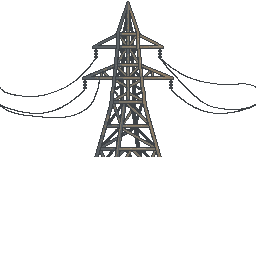
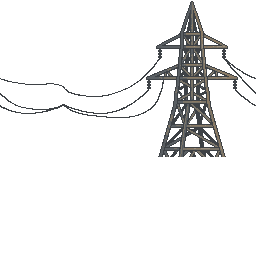
Art Director phase 4: round flywheel, pylon offset, sky + RotSprite sheets, tech tree/HUD/float text polish
Includes RotSprite generation scripts (scripts/art) and the code prototype diff
for the remaining Phase 4 code fixes.

Claude-Session: https://claude.ai/code/session_013hgiVthTsnhGySSf7gyoCD

Changed region(s): [[0.0, 0.0, 1.0, 0.625]]

diff --git a/src/data/world.ts b/src/data/world.ts
@@ -28,5 +28,5 @@ export const DUST: { maxParticles: number; frequencyMs: number; lifespanMs: [num
     alpha: [0, 0.35] /* [end, start] fade */, scale: [1, 2.5], depth: DEPTH.dust,
     spawnTopY: GROUND_Y - 520, spawnBottomY: GROUND_Y - 20 };
 export const CRANK_FEEDBACK = { degreesPerClick: 90, tweenMs: 160, shakePx: 1 /* art px */, shakeMs: 60,
-  floatRisePx: 48, floatMs: 700, floatPoolSize: 24, hitRadius: 36 /* art px, crank click area */ } as const;
-export const FLOATING_TEXT = { fontSizePx: 20, strokePx: 3, jitterX: 14, spawnOffsetY: -40 } as const;   // world px
+  floatRisePx: 40, floatMs: 1100, floatPoolSize: 24, hitRadius: 36 /* art px, crank click area */ } as const;
+export const FLOATING_TEXT = { fontSizePx: 24, strokePx: 4, jitterX: 14, spawnOffsetY: -56 } as const;   // world px

diff --git a/src/ui/techTree.css b/src/ui/techTree.css
@@ -159,8 +159,11 @@
   cursor: pointer;
 }
 
+/* .88em with no tracking fits the longest name (19 chars, "GENERATOR BLUEPRINT") in the 152 px inner width of a 176 px node. */
 .tech-node-name {
-  font-size: .95em;
+  font-size: .88em;
+  letter-spacing: 0;
+  font-weight: 700;
   white-space: nowrap;
   overflow: hidden;
   text-overflow: ellipsis;

diff --git a/src/ui/hud.css b/src/ui/hud.css
@@ -46,10 +46,17 @@
   padding-bottom: 4px;
 }
 
+/* Baseline alignment keeps the small labels on the same line as the large ME value. */
 .hud-row {
   display: flex;
   justify-content: space-between;
+  align-items: baseline;
   gap: 16px;
+  line-height: 1.25;
+}
+
+.hud-row + .hud-row {
+  margin-top: 2px;
 }
 
 .hud-label {

diff --git a/scripts/art/make_rot.py b/scripts/art/make_rot.py
@@ -1,0 +1,36 @@
+# Pre-render RotSprite rotation sheets. Frame k = source rotated clockwise by k*360/N deg about the canvas centre corner.
+import sys, json, math
+import numpy as np
+from PIL import Image
+sys.path.insert(0, sys.path[0])
+from rotsprite import scale2x
+
+SRC = '/home/user/WhatExatlyDoesThisMachineDo/public/assets/machine/'
+OUT = sys.argv[1]
+PARTS = {  # file: frames over 360 deg
+    'flywheel': 180, 'gear-large': 140, 'gear-small': 80, 'hand-crank': 80, 'crank-brace': 80,
+    'pulley-main': 140, 'pulley-crank': 80, 'pulley-flywheel': 180, 'pulley-motor': 24,
+}
+UP = 3; K = 2 ** UP
+meta = {}
+for name, n in PARTS.items():
+    src = Image.open(SRC + name + '.png').convert('RGBA')
+    a = np.array(src); a[a[:, :, 3] < 128] = 0; a[a[:, :, 3] >= 128, 3] = 255
+    big = a.copy()
+    for _ in range(UP): big = scale2x(big)
+    bigim = Image.fromarray(big)
+    W, H = src.size
+    cols = math.ceil(math.sqrt(n * H / W)); cols = min(cols, n)
+    rows = math.ceil(n / cols)
+    sheet = Image.new('RGBA', (cols * W, rows * H), (0, 0, 0, 0))
+    for k in range(n):
+        deg = k * 360.0 / n
+        if k == 0:
+            fr = Image.fromarray(a)
+        else:
+            r = np.array(bigim.rotate(-deg, resample=Image.NEAREST, center=(bigim.width / 2, bigim.height / 2)))
+            fr = Image.fromarray(r[K // 2::K, K // 2::K].copy())
+        sheet.paste(fr, ((k % cols) * W, (k // cols) * H))
+    sheet.save(f'{OUT}/{name}-rot.png')
+    meta[name] = {'frames': n, 'cols': cols, 'rows': rows, 'frameWidth': W, 'frameHeight': H, 'stepDeg': 360.0 / n, 'sheet': list(sheet.size)}
+print(json.dumps(meta, indent=1))

diff --git a/scripts/art/rotsprite.py b/scripts/art/rotsprite.py
@@ -1,0 +1,34 @@
+import numpy as np
+from PIL import Image
+
+def scale2x(a):
+    # a: HxWx4 uint8 ; EPX/Scale2x
+    H, W = a.shape[:2]
+    p = np.pad(a, ((1,1),(1,1),(0,0)), mode='edge')
+    E = p[1:-1,1:-1]; B = p[:-2,1:-1]; D = p[1:-1,:-2]; F = p[1:-1,2:]; H_ = p[2:,1:-1]
+    eq = lambda x, y: np.all(x == y, axis=2)
+    c = (~eq(B, H_)) & (~eq(D, F))
+    E0 = np.where((c & eq(D, B))[..., None], D, E)
+    E1 = np.where((c & eq(B, F))[..., None], F, E)
+    E2 = np.where((c & eq(D, H_))[..., None], D, E)
+    E3 = np.where((c & eq(H_, F))[..., None], F, E)
+    out = np.zeros((H*2, W*2, 4), np.uint8)
+    out[0::2,0::2] = E0; out[0::2,1::2] = E1; out[1::2,0::2] = E2; out[1::2,1::2] = E3
+    return out
+
+def rotsprite(img, deg, up=3):
+    a = np.array(img.convert('RGBA'))
+    a[a[:,:,3] < 128] = 0
+    for _ in range(up): a = scale2x(a)
+    k = 2 ** up
+    big = Image.fromarray(a)
+    # rotate about exact centre, NN, same size
+    r = big.rotate(-deg, resample=Image.NEAREST, center=(big.width/2, big.height/2))
+    r = np.array(r)
+    # downsample: sample centre pixel of each kxk block
+    off = k // 2
+    small = r[off::k, off::k]
+    return Image.fromarray(small)
+
+def nn(img, deg):
+    return img.convert('RGBA').rotate(-deg, resample=Image.NEAREST, center=(img.width/2, img.height/2))

diff --git a/docs/plan/ART_AUDIT.md b/docs/plan/ART_AUDIT.md
@@ -204,3 +204,66 @@ or tween between those steps. Gameplay unaffected.
 
 **C3 (S3) docs/manifest text.** `src/assets/manifest.ts:78` pulleyCrank description → `'Small flat-belt pulley (r8, centred in a 32×32 canvas) with crowned rim and solid three-rib web; belt rides inside the pinion root.'`;
 `docs/ASSET_GUIDE.md` crank row: "slim crank arm with r5.5 boss and wooden knob at r≈18"; gear rows: "solid recessed web, teeth one value step lighter than the frame".
+
+## Phase 4 — release-quality gate (2026-10-18)
+Evidence (scratch `.../scratchpad/p4/`): `final/full.png`, `final/stages/s0..s7`, `final/u03-tree.png`, `final/u04-tree-sel.png`,
+`final/u06-system.png`, `final/u02-toasts.png` (repo build); prototype of the code fixes below (scratch copy `p4/proto`, port 4180):
+`proto_full2.png`, `mo2/s7-z4-f00.png` (zoom 2), `mo2_s7_hub.png` (art-res motion sheet), `ft3_c.png` (floating text);
+before: `mo_s7_hub.png`, `mo/s7-z4-f00.png`, `rs_flywheel.png` / `rs_gear-large.png` (NN vs RotSprite), `fly_round_cmp2.png`.
+Headless note: Chromium runs this scene at ~7–25 fps, so tweens < 300 ms are mostly missed by screenshots; sample alpha via a dev hook.
+
+### Fixed (assets, numeric data, CSS)
+| # | defect | fix | evidence |
+|---|---|---|---|
+| P4-1 | Pylon lattice centred behind the crank / gear mesh at the default camera (pylons at screen x 127/640/1152) — focal-point clutter | `bg/pylons.png` rolled +64 art px (np.roll, tileable, no resample) → pylons at x 255 (left of motor) / 767 (right bay, top shows between pistons and flywheel) | final/full.png |
+| P4-2 | Flywheel silhouette not round: rim outer radius 47.9 (axes) … 52.3 (diagonals) = squircle → wheel "egg-wobbles" while spinning, rotated corners clip | `machine/flywheel.png` trimmed to circle r 47.6 about corner (48,48), outline re-inked #14110f, 1-px lit lip ring #5f5244 (r 45.6–46.6); 799 px removed, palette unchanged | fly_round_cmp2.png, final/stages/s5 |
+| P4-3 | Tech-tree names truncated: "REINFORCED CRA…", "GENERATOR BLUE…", "IMPROVED PISTO…" | `techTree.css` `.tech-node-name` .88em, letter-spacing 0, bold (19 chars = 150 px ≤ 152 px inner width) | final/u04-tree-sel.png |
+| P4-4 | "+N" click text practically invisible: alpha fades with Cubic.easeOut over 700 ms (alpha .49 @140 ms, .18 @300 ms), 20 px mutedOrange on the dark girder | `world.ts` `floatMs` 1100, `floatRisePx` 40, `FLOATING_TEXT` fontSizePx 24, strokePx 4, spawnOffsetY −56 (clears knob arc); rest = C4-3 | ft3_c.png (with C4-3) |
+| P4-5 | HUD: small labels top-aligned against the 1.6em ME value, secondary rows touching | `hud.css` `.hud-row` align-items baseline, line-height 1.25, 2 px between rows | final/full.png |
+| P4-6 | Assets for code fixes (inert until wired): `bg/sky.png` 1280×720 (4 sky tones as hard stepped strata + pale sun r17/halo r25 upper-left = light direction; 5 palette colours); `machine/rot/*-rot.png` RotSprite rotation sheets (table C4-1) | — | proto_full2.png |
+
+Verified OK: unlock stages s0..s7 coherent (s2/s6 motor drives main pulley only, crank independent); crank brace reads at s4+ (thicker riveted arm + flange);
+belts tangent, open belt direction correct; rod eye stays on main-pulley boss; toasts never cover x < 904; system menu / reset confirm legible.
+`npm test` 584/584, `npm run typecheck` clean, `npm run build` ok, smoke errors [].
+
+### Phase 4 code fixes (Engineering Manager; Art Director did not edit code)
+**C4-1 (S2, most visible art defect) RotSprite rotation frames instead of NN `setAngle`.** NN rotation at art res breaks 1-px outlines into
+hairy spurs (flywheel rim, gear teeth) every frame. Sheets are ready in `public/assets/machine/rot/`: grid, row-major, frame k = source rotated
+**clockwise** by k·360/N about the canvas-centre corner (Scale2x×3 → NN rotate → centre-sample /8; frame 0 = source; source colours only).
+| assetId | file | frame W×H | N | cols×rows |
+|---|---|---|---|---|
+| machine.flywheel | machine/rot/flywheel-rot.png | 96×96 | 180 | 14×13 |
+| machine.gearLarge | machine/rot/gear-large-rot.png | 64×64 | 140 | 12×12 |
+| machine.gearSmall | machine/rot/gear-small-rot.png | 40×40 | 80 | 9×9 |
+| machine.crank | machine/rot/hand-crank-rot.png | 48×48 | 80 | 9×9 |
+| machine.crankBrace | machine/rot/crank-brace-rot.png | 48×48 | 80 | 9×9 |
+| machine.pulleyMain | machine/rot/pulley-main-rot.png | 24×24 | 140 | 12×12 |
+| machine.pulleyCrank | machine/rot/pulley-crank-rot.png | 32×32 | 80 | 9×9 |
+| machine.pulleyFlywheel | machine/rot/pulley-flywheel-rot.png | 28×28 | 180 | 14×13 |
+| machine.pulleyMotor | machine/rot/pulley-motor-rot.png | 12×12 | 24 | 5×5 |
+Frame counts are load-bearing: 140/80 = 1.75 = gear ratio and pinion phase 22.5° = 5 frames, so both gears always show an exact mesh pair
+(overlap ≤ 2 px in 20/140 frames, NN today ≤ 2 px in 36/140); parts sharing a shaft share N (main 140, crank 80, flywheel 180).
+- `src/assets/manifest.ts`: `AssetEntry.rotation?: { file: string; frames: number }`; set it on the 9 entries above. `planAssetLoads()` emits an extra
+  `{ key: id + '#rot', url: 'assets/' + rotation.file, kind: 'spritesheet', frame: { width, height, count: frames } }`. `manifest.test.ts`: rotation file exists in the glob, frames integer > 1.
+- `src/game/scenes/BootScene.ts:21`: pass `endFrame: load.frame.count - 1` to `this.load.spritesheet`.
+- `src/game/math/driveTrain.ts` (pure): `export function rotationFrame(deg: number, frames: number): number { const n = ((deg % 360) + 360) % 360; return Math.round((n / 360) * frames) % frames; }`
+  + tests: (0,80)→0, (4.5,80)→1, (−4.5,80)→79, (359.9,80)→0, (22.5,80)→5.
+- `src/game/entities/MachineView.ts:96` sprite texture: `def.animation.kind === 'driven' && scene.textures.exists(def.assetId + '#rot') ? def.assetId + '#rot' : def.assetId`, frame 0.
+- `src/game/entities/MachineAnimator.ts` lines 94, 117, 123: replace `setAngle(x)` with `applyAngle(sprite, x)` = if texture key ends with `#rot`:
+  `setFrame(rotationFrame(x, sprite.texture.frameTotal - 1)); setAngle(0)` else `setAngle(x)` (fallback when a sheet is missing).
+- Regeneration script (put in `scripts/art/make_rot.py`; source: scratch `p4/tools/make_rot.py` + `p4/tools/rotsprite.py`; algorithm in this section) —
+  rerun whenever a rotating source PNG changes. Prototype diff: scratch `p4/proto.diff`.
+
+**C4-2 (S3) sky asset.** `src/assets/manifest.ts:17` `bg.sky` `file: null` → `'bg/sky.png'`; description → `'Dusty sky in the four sky palette tones as hard stepped strata, pale sun disc upper-left (light direction); screen-fixed, shown at 2x.'`
+(fallback painter stays). Adds top-dark → horizon-light depth and a light source matching the machine's upper-left lighting.
+
+**C4-3 (S2) floating "+N" readability.** `src/game/rendering/FloatingText.ts`: split the tween — `y` with `Cubic.easeOut`, `alpha: 0` with
+`Quad.easeIn` (same duration; `onComplete` hide on the alpha tween) → alpha ≥ .8 for the first 400 ms (measured .98/.91/.80/.58/.38/.14 at 0.15 s steps);
+text style `color: '#ffd27a'` (palette accent light), `fontStyle: 'bold'` (ink stroke 4 px from data) → readable on dark girder and on haze.
+
+**C4-4 (S4, polish) ground depth.** `src/data/world.ts`: `GROUND_SHADE = { color: PALETTE.ink, alpha: 0.07, bandStarts: [64, 128, 192], haze: { color: PALETTE.skyHaze, alpha: 0.3, height: 18 } }` (world px below GROUND_Y);
+`src/game/rendering/Terrain.ts`: after the horizon strip add one haze rectangle at `GROUND_Y + HORIZON_STRIP.height` (height 18) and one ink rectangle per band start
+from `GROUND_Y + start` to `WORLD.height` (depth `GROUND_LAYER.depth + 1`, origin 0,0). Hard steps, no gradient: far ground hazed, foreground darker. Evidence proto_full2.png.
+
+**C4-5 (S4, optional) first-click affordance.** At s0 the crank is ~40 screen px in an empty frame. Until the first click, pulse the crank knob:
+a 2-art-px ring #ffd27a alpha 0→.6→0 at r 20 art px around crankHub, 1.2 s period, stop on first click. Code only (HandCrank.ts), no asset.
